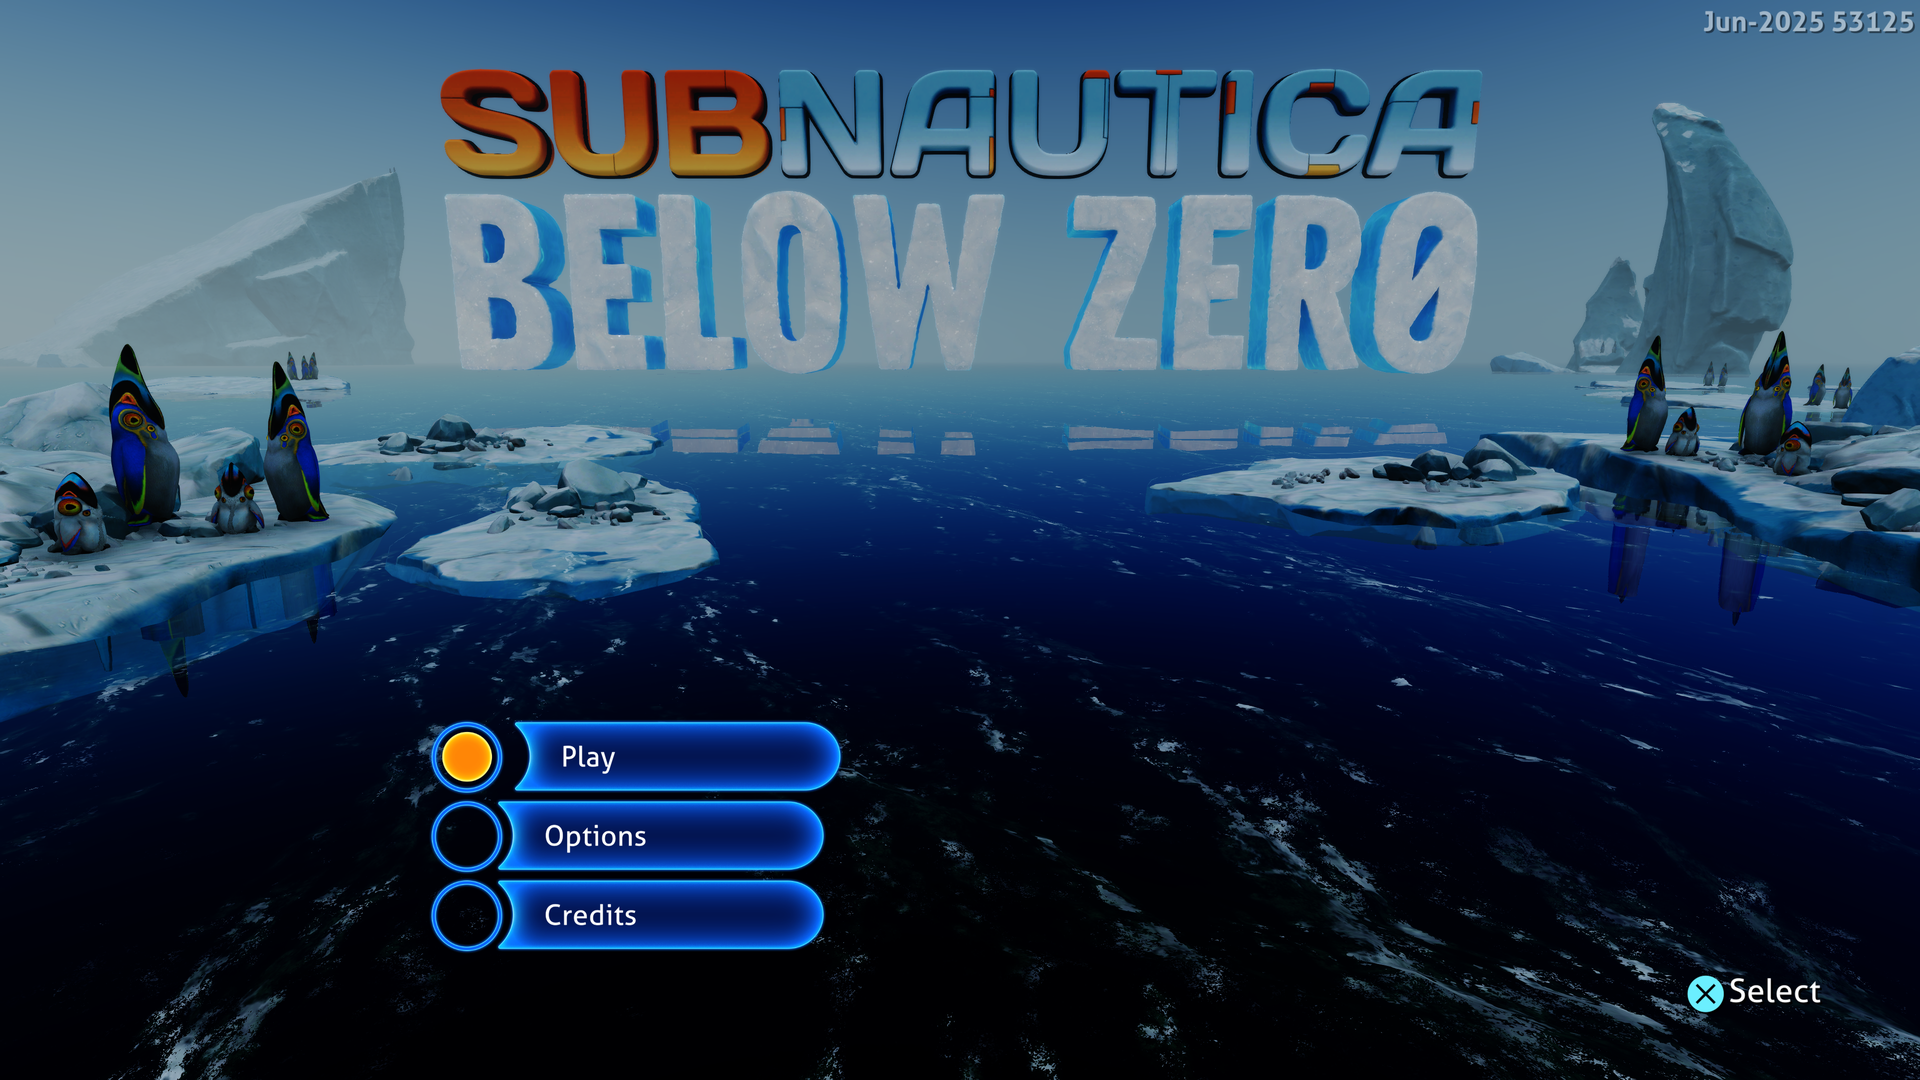
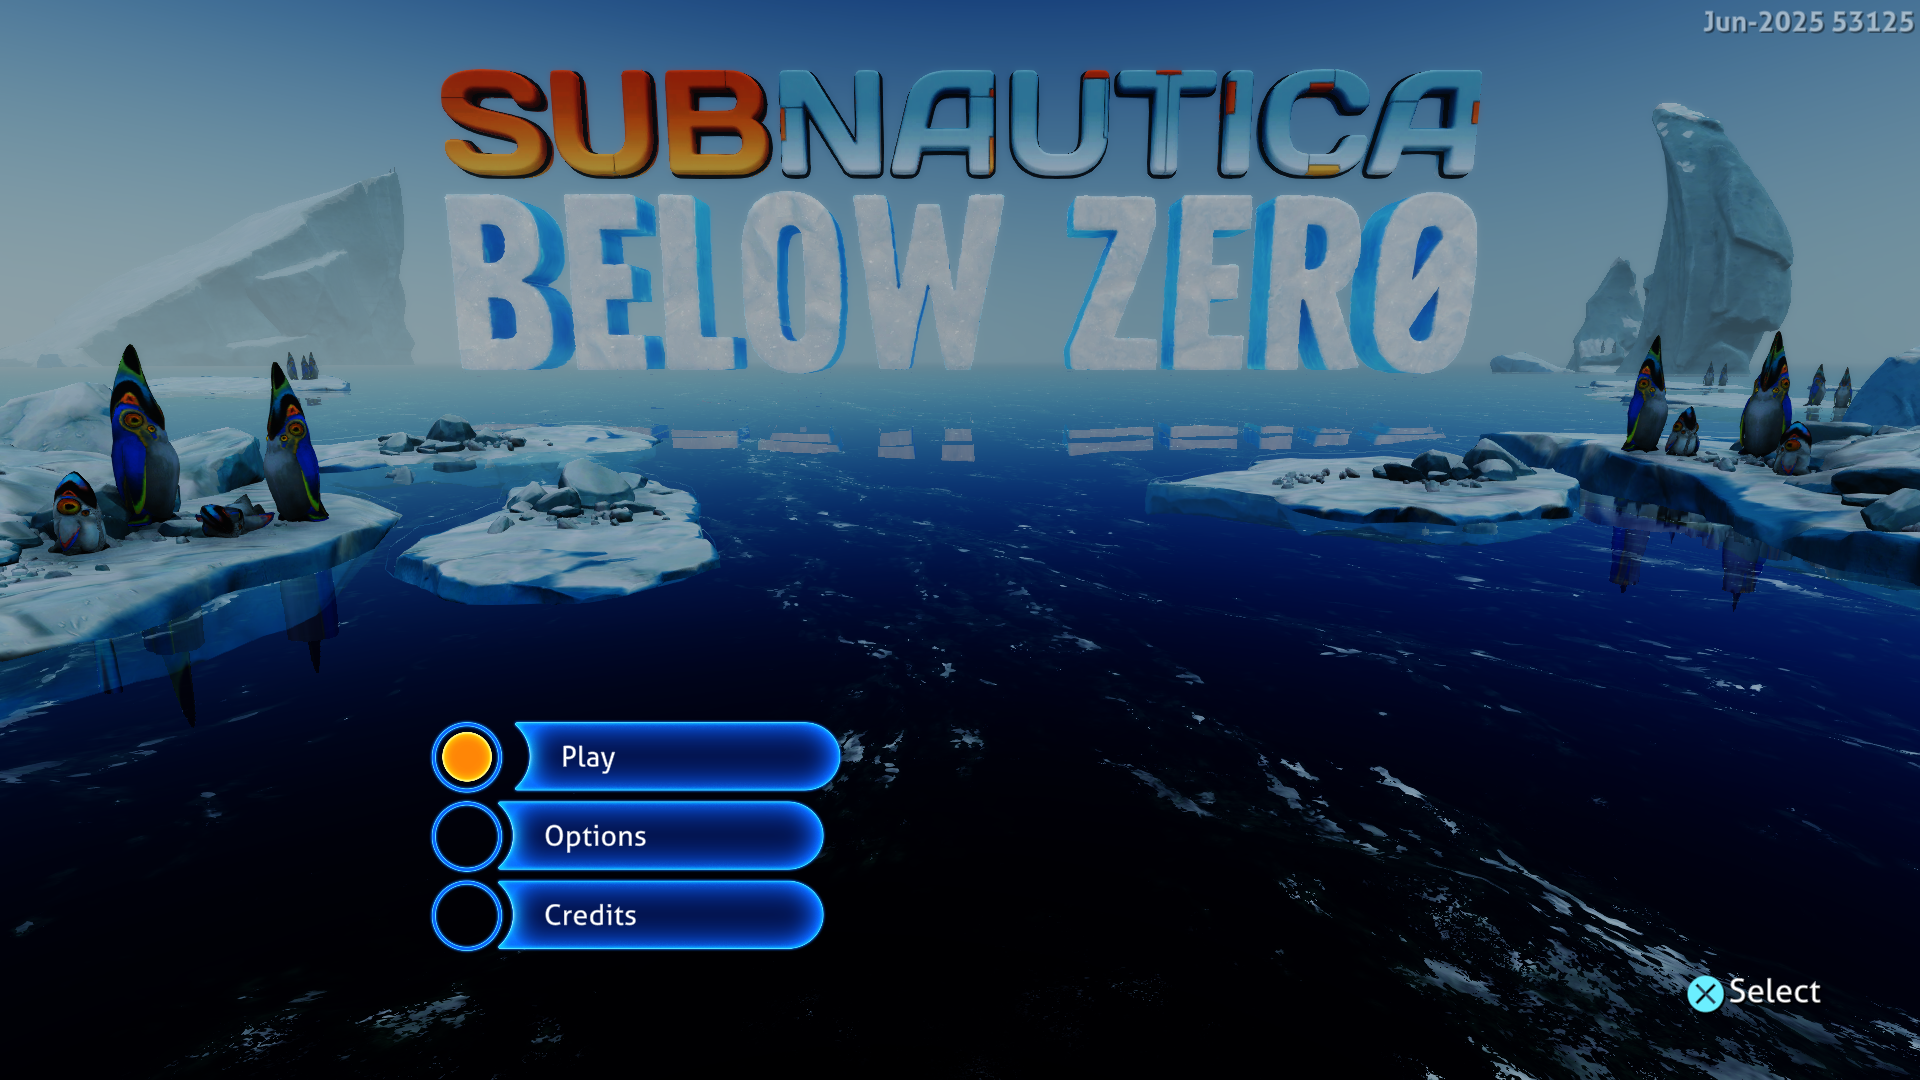
content: report native 1080p menu and buffer reuse results

diff --git a/src/data/compatibility.ts b/src/data/compatibility.ts
@@ -73,18 +73,18 @@ export const compatibility: CompatibilityEntry[] = [
     title: "Subnautica: Below Zero",
     tier: "intro",
     status: "Main menu renders · gameplay unverified",
-    headline: "FMOD loading restores the main menu after the startup crash fix.",
+    headline: "The main menu now renders at native 1080p with improved buffer reuse.",
     milestone:
-      "Verified on September 26, 2026 with PPSA02457 v1.022.125. Distinct guest file descriptor identities resolve the startup fault. Loading the game's FMOD plugins allows platform initialization to finish: Enter opens the main menu from Press Options, showing Play, Options and Credits over the animated ocean scene.",
+      "Rechecked on September 27, 2026 with PPSA02457 v1.022.125. After the file descriptor and FMOD fixes, Enter opens Play, Options and Credits over the animated ocean scene. The default 1920×1080 setting now reaches Unity's startup configuration through a virtual file, leaving installed game files unchanged. Buffer reuse and memory-access improvements apply across titles.",
     notes:
-      "Development-build result; the existing 0.3.2 download predates these fixes. Rendering artifacts and intermittent label issues remain. Gameplay, audio correctness and longer-run stability are unverified; playability is not claimed.",
+      "Development-build result; the existing 0.3.2 download predates these fixes. The 30 FPS menu target remains unmet. Rendering artifacts and intermittent label issues remain. Gameplay, audio correctness and longer-run stability are unverified; playability is not claimed. Other engines can still choose their own internal render resolution.",
     performance:
-      "A 180-second menu run on the RTX 3070 Ti test host sampled 193–223 ms per frame, median 204 ms (about 4.9 FPS), after device-local compute buffers and batched scalar reads. The game still renders internally at 3840×2160.",
+      "A 180-second ReleaseFast run on the RTX 3070 Ti host sampled 100–121 ms per frame from flip 600 onward, median 105.5 ms (about 9.5 FPS), at native 1920×1080. The earlier 4K run had a median of 204 ms (4.9 FPS). Graphics-command processing and GPU waits remain the main bottlenecks.",
     image: {
       src: "/images/subnautica-below-zero-menu.png",
       alt: "Subnautica Below Zero main menu showing Play, Options and Credits in PS5PCEM",
     },
-    confirmedOn: "2026-09-26",
+    confirmedOn: "2026-09-27",
   },
   {
     slug: "terminator-2d-no-fate",

diff --git a/src/data/gallery.ts b/src/data/gallery.ts
@@ -17,7 +17,7 @@ export const captures: Capture[] = [
     alt: "Subnautica Below Zero main menu showing Play, Options and Credits in PS5PCEM",
     title: "Subnautica: Below Zero — main menu",
     caption:
-      "PPSA02457 v1.022.125, September 26, 2026. Loading the game's FMOD plugins restores platform initialization after the file descriptor startup fix. Enter opens this menu with Play, Options and Credits. Captured from the running emulator; rendering artifacts remain and gameplay is unverified.",
+      "PPSA02457 v1.022.125, September 27, 2026. An unscaled native 1920×1080 capture from the running emulator after the shared Unity startup-resolution and buffer-reuse changes. Enter opens Play, Options and Credits. Measured menu performance is about 9.5 FPS; 30 FPS remains a target. Rendering artifacts remain and gameplay is unverified.",
   },
   {
     src: "/images/launcher-library.png",
